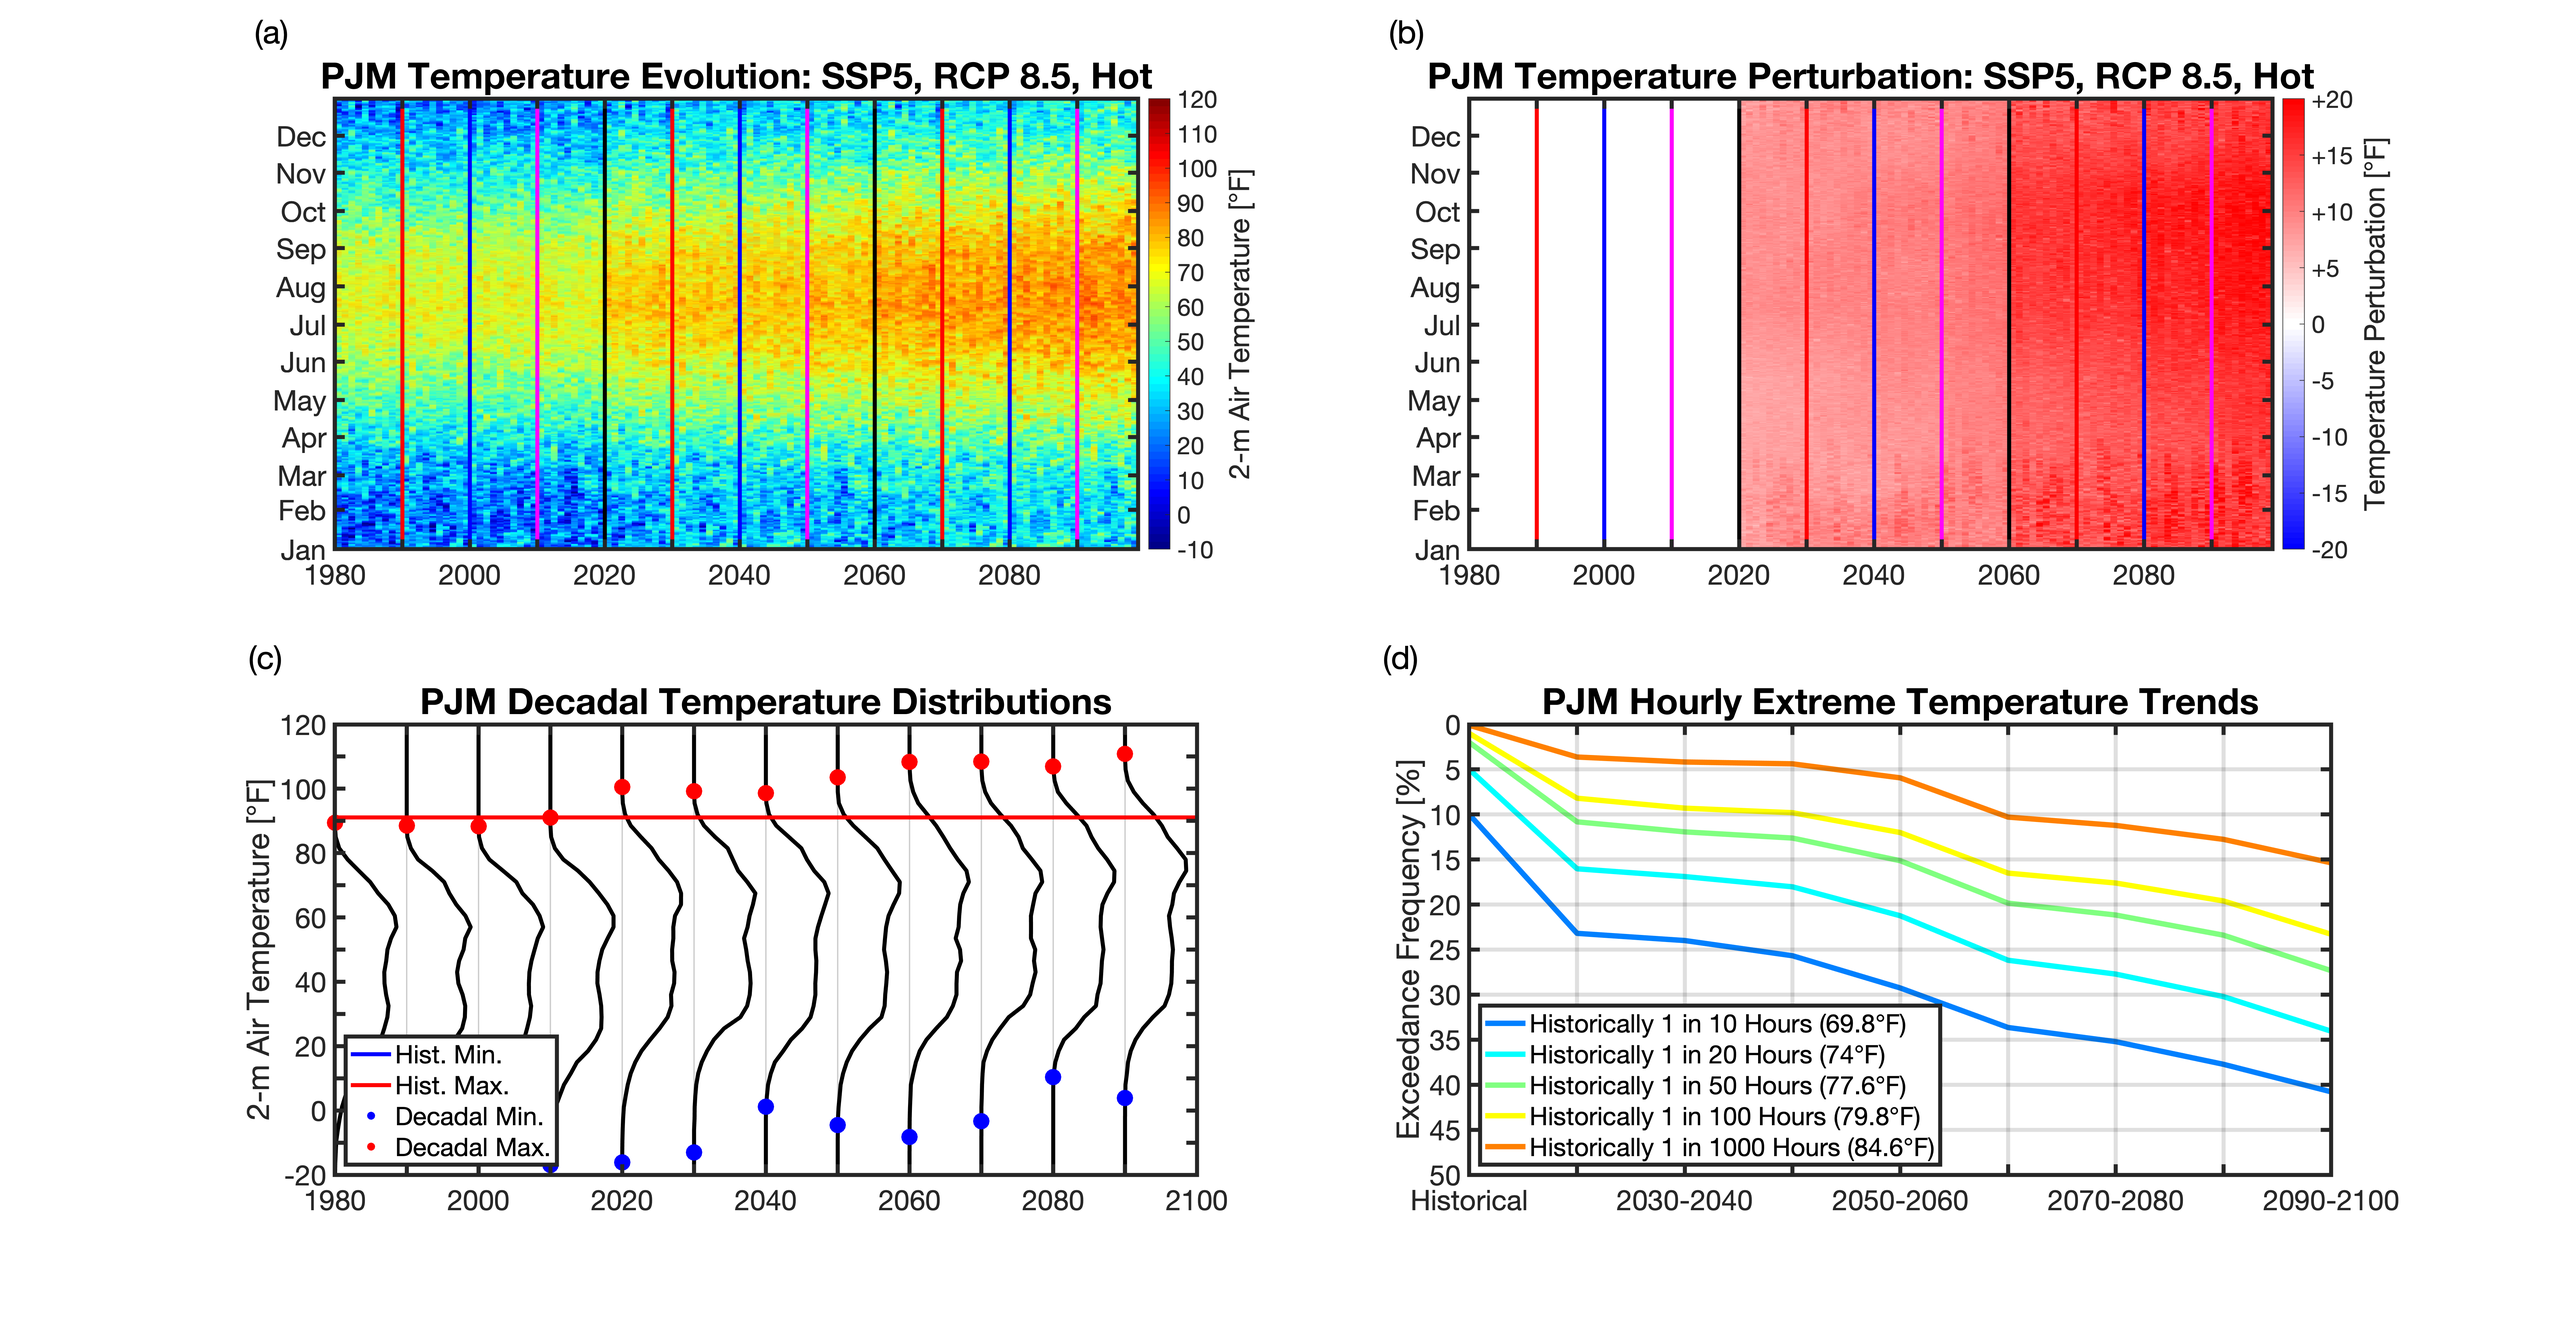
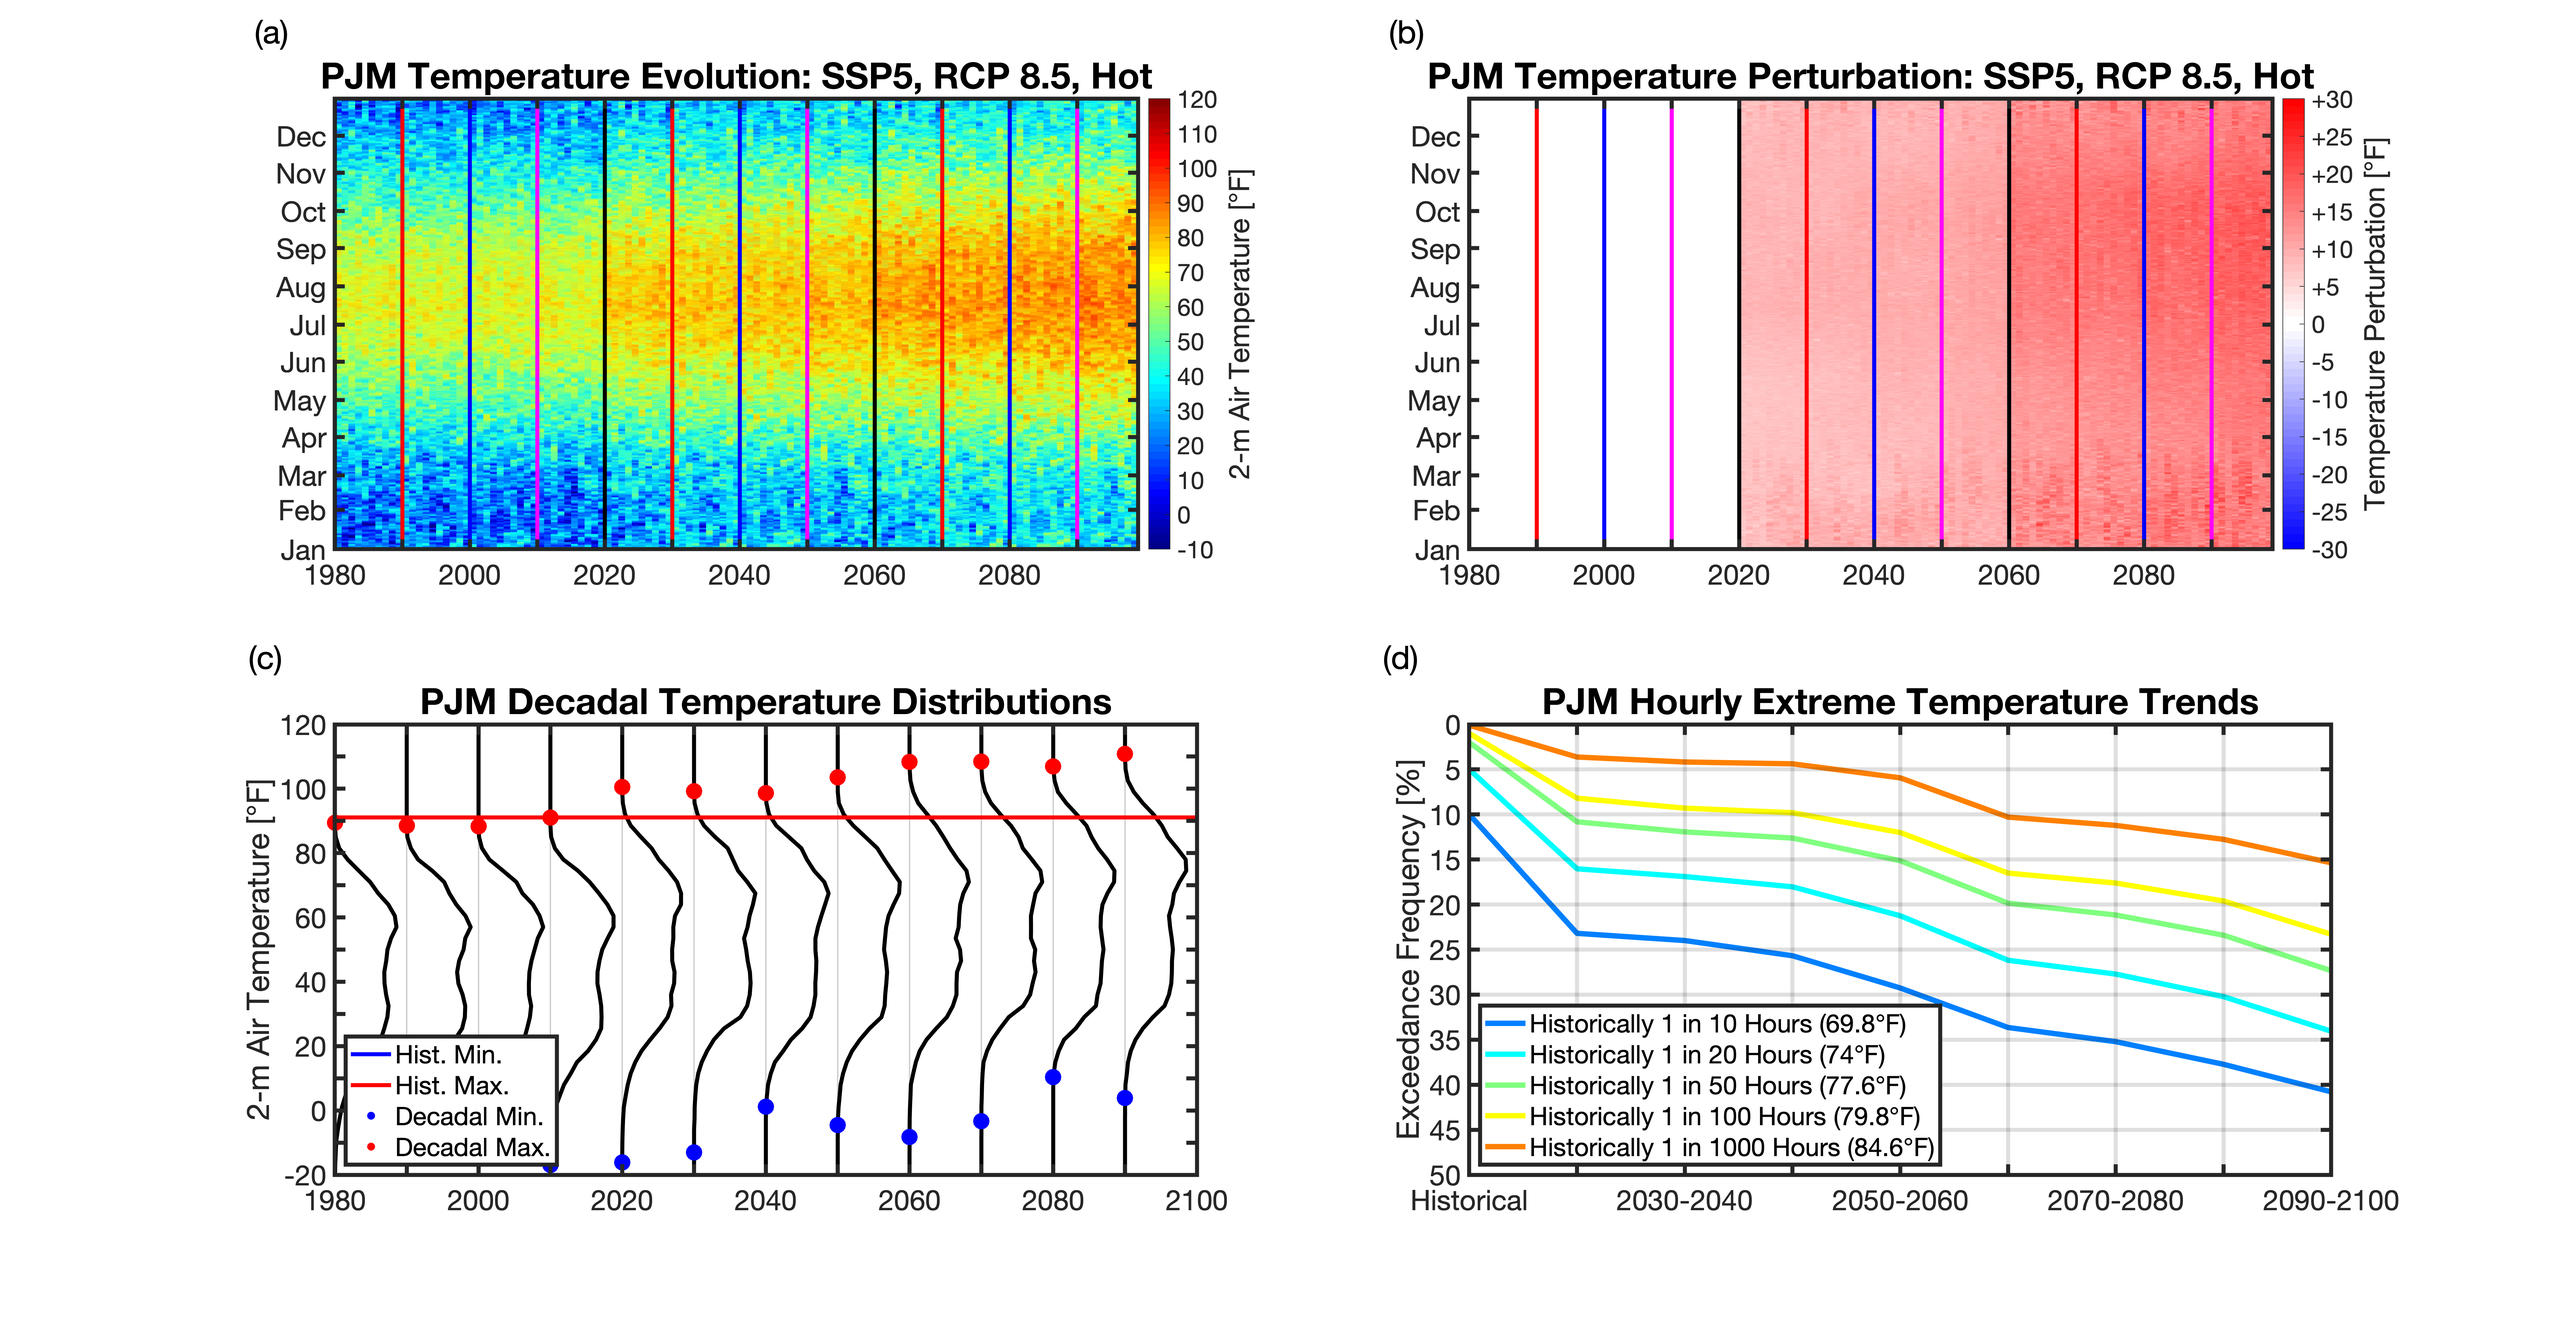
Updated temperature plotting for PJM

Changed region(s): [[0.6562, 0.0624, 0.9062, 0.4371]]

diff --git a/figures/Balancing_Authority_Temperature_Evolution.m b/figures/Balancing_Authority_Temperature_Evolution.m
@@ -10,7 +10,7 @@ clear all; close all;
 %%%%%%%%%%%%%%%%%%%%%%%%%%%%%%%%%%%%%%%%%%%%%%%%%%%%%%%
 % Set some processing flags:
 save_images = 1; % (1 = Yes)
-ba_code = 'BPAT'; % Code of the balancing authority to process and plot
+ba_code = 'PJM'; % Code of the balancing authority to process and plot
 ef_bins = [0.90,0.95,0.98,0.99,0.999]';
 
 % Set the data input and image output directories:
@@ -180,7 +180,10 @@ title([ba_code,' Temperature Evolution: SSP5, RCP 8.5, Hot'],'FontSize',27)
 text(-0.10,1.15,'(a)','FontSize',24,'Units','normalized');
 clear colo
 
-ax2 = subplot(2,2,2); hold on; colormap(ax2,redblue(80));
+cmap = redblue(60);
+cmap2 = cmap(31:60,:);
+
+ax2 = subplot(2,2,2); hold on; colormap(ax2,redblue(60));
 pcolor(Time(1,:),[0:1:8783],Delta_T2_F_Hot); shading flat;
 line([1980 1980],[0 8760],'Color','k','LineWidth',3);
 line([2020 2020],[0 8760],'Color','k','LineWidth',3);
@@ -197,7 +200,7 @@ line([2090 2090],[0 8760],'Color','m','LineWidth',3);
 xlim([1980 2099]); set(gca,'xtick',[1980:10:2100],'xticklabel',{'1980','','2000','','2020','','2040','','2060','','2080','','2100'});
 ylim([0 8760]); set(gca,'ytick',([0,32,60,91,121,152,182,213,244,274,305,335].*24),'yticklabel',{'Jan','Feb','Mar','Apr','May','Jun','Jul','Aug','Sep','Oct','Nov','Dec'});
 % set(gca,'clim',[-1*max(abs(Delta_T2_F_Hot(:))) max(abs(Delta_T2_F_Hot(:)))]); 
-set(gca,'clim',[-20 20]); 
+set(gca,'clim',[-30 30]); 
 colo = colorbar('Location','EastOutside','ytickmode','manual'); 
 set(colo,'FontSize',18,'ytick',[-30:5:30],'yticklabel',{'-30','-25','-20','-15','-10','-5','0','+5','+10','+15','+20','+25','+30'});
 set(get(colo,'yLabel'),'String',['Temperature Perturbation [',setstr(176),'F]'],'FontSize',21); 
